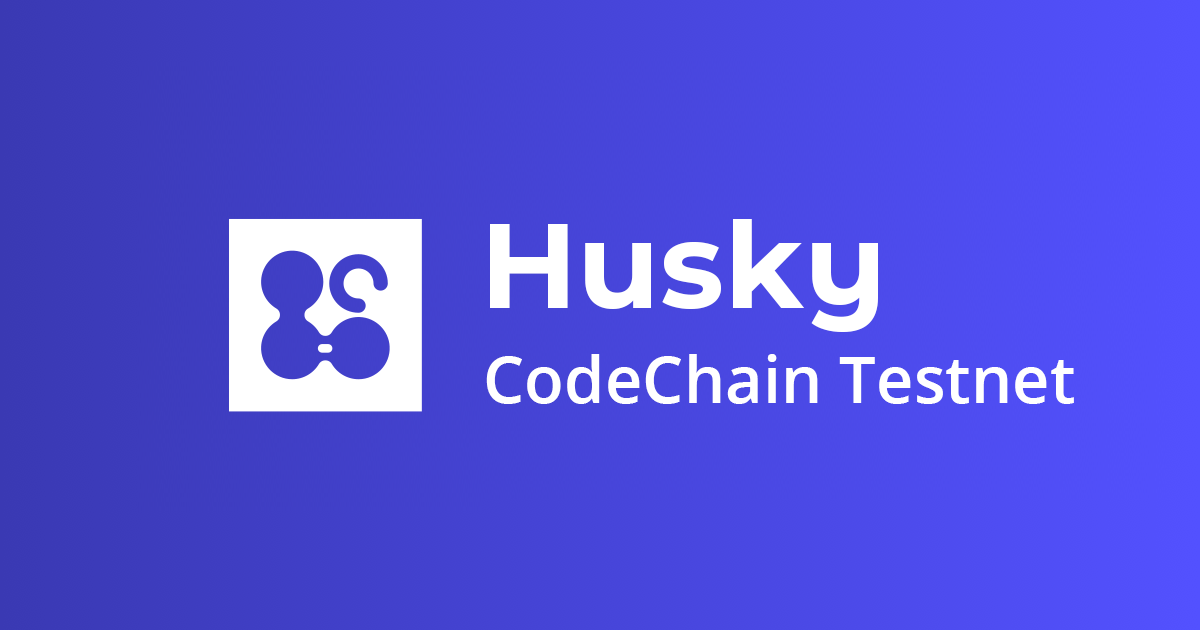
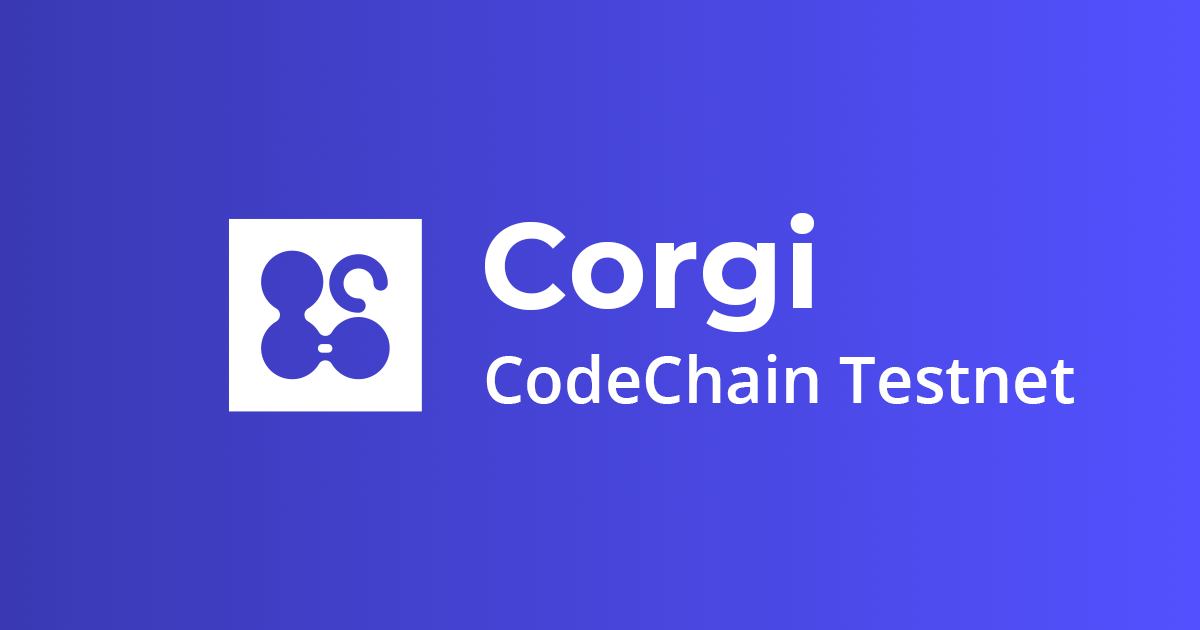
Change text for the Corgi

Changed region(s): [[0.4008, 0.3317, 0.74, 0.5429]]

diff --git a/public/index.html b/public/index.html
@@ -1,22 +1,21 @@
 <!DOCTYPE html>
 <html lang="en">
-
-<head>
-  <meta charset="utf-8">
-  <meta name="viewport" content="width=device-width, initial-scale=1, shrink-to-fit=no">
-  <meta name="theme-color" content="#000000">
-  <meta name="twitter:card" content="summary_large_image" />
-  <meta property="og:url" content="%REACT_APP_URL%" />
-  <meta property="og:title" content="CodeChain Explorer For Husky" />
-  <meta property="og:description" content="View activity on the underlying Husky test network" />
-  <meta property="og:image" content="%REACT_APP_URL%/og_image.png" />
-  <!--
+  <head>
+    <meta charset="utf-8" />
+    <meta name="viewport" content="width=device-width, initial-scale=1, shrink-to-fit=no" />
+    <meta name="theme-color" content="#000000" />
+    <meta name="twitter:card" content="summary_large_image" />
+    <meta property="og:url" content="%REACT_APP_URL%" />
+    <meta property="og:title" content="CodeChain Explorer For Corgi" />
+    <meta property="og:description" content="View activity on the underlying Corgi test network" />
+    <meta property="og:image" content="%REACT_APP_URL%/og_image.png" />
+    <!--
       manifest.json provides metadata used when your web app is added to the
       homescreen on Android. See https://developers.google.com/web/fundamentals/engage-and-retain/web-app-manifest/
     -->
-  <link rel="manifest" href="%PUBLIC_URL%/manifest.json">
-  <link rel="shortcut icon" href="%PUBLIC_URL%/favicon.ico">
-  <!--
+    <link rel="manifest" href="%PUBLIC_URL%/manifest.json" />
+    <link rel="shortcut icon" href="%PUBLIC_URL%/favicon.ico" />
+    <!--
       Notice the use of %PUBLIC_URL% in the tags above.
       It will be replaced with the URL of the `public` folder during the build.
       Only files inside the `public` folder can be referenced from the HTML.
@@ -25,15 +24,13 @@
       work correctly both with client-side routing and a non-root public URL.
       Learn how to configure a non-root public URL by running `npm run build`.
     -->
-  <title>CodeChain Explorer</title>
-</head>
+    <title>CodeChain Explorer</title>
+  </head>
 
-<body>
-  <noscript>
-    You need to enable JavaScript to run this app.
-  </noscript>
-  <div id="root"></div>
-  <!--
+  <body>
+    <noscript> You need to enable JavaScript to run this app. </noscript>
+    <div id="root"></div>
+    <!--
       This HTML file is a template.
       If you open it directly in the browser, you will see an empty page.
 
@@ -43,17 +40,16 @@
       To begin the development, run `npm start` or `yarn start`.
       To create a production bundle, use `npm run build` or `yarn build`.
     -->
-  <!-- Global site tag (gtag.js) - Google Analytics -->
-  <script async src="https://www.googletagmanager.com/gtag/js?id=%REACT_APP_GOOGLE_ANALYTICS_ID%"></script>
-  <script>
-    window.dataLayer = window.dataLayer || [];
+    <!-- Global site tag (gtag.js) - Google Analytics -->
+    <script async src="https://www.googletagmanager.com/gtag/js?id=%REACT_APP_GOOGLE_ANALYTICS_ID%"></script>
+    <script>
+      window.dataLayer = window.dataLayer || [];
 
-    function gtag() {
-      dataLayer.push(arguments);
-    }
-    gtag("js", new Date());
-    gtag("config", "%REACT_APP_GOOGLE_ANALYTICS_ID%");
-  </script>
-</body>
-
+      function gtag() {
+        dataLayer.push(arguments);
+      }
+      gtag("js", new Date());
+      gtag("config", "%REACT_APP_GOOGLE_ANALYTICS_ID%");
+    </script>
+  </body>
 </html>

diff --git a/src/components/header/Header/Header.tsx b/src/components/header/Header/Header.tsx
@@ -58,11 +58,11 @@ class Header extends React.Component<{}, State> {
                                         className="d-inline-block header-big"
                                     >
                                         <span id="explorer-title" className="header-title">
-                                            CodeChain Explorer - Husky
+                                            CodeChain Explorer - Corgi
                                         </span>
                                     </div>
                                     <div className="d-inline-block header-small">
-                                        <span className="header-title">Explorer - Husky</span>
+                                        <span className="header-title">Explorer - Corgi</span>
                                     </div>
                                 </NavbarBrand>
                             </IndexLinkContainer>
@@ -119,8 +119,8 @@ class Header extends React.Component<{}, State> {
                     target="explorer-title"
                     toggle={this.togglePopover}
                 >
-                    <PopoverHeader>Husky Testnet</PopoverHeader>
-                    <PopoverBody>This testnet uses a PoW consensus algorithm called Cuckoo Cycle.</PopoverBody>
+                    <PopoverHeader>Corgi Testnet</PopoverHeader>
+                    <PopoverBody>This testnet uses a Tendermint consensus algorithm.</PopoverBody>
                 </Popover>
             </div>
         );
